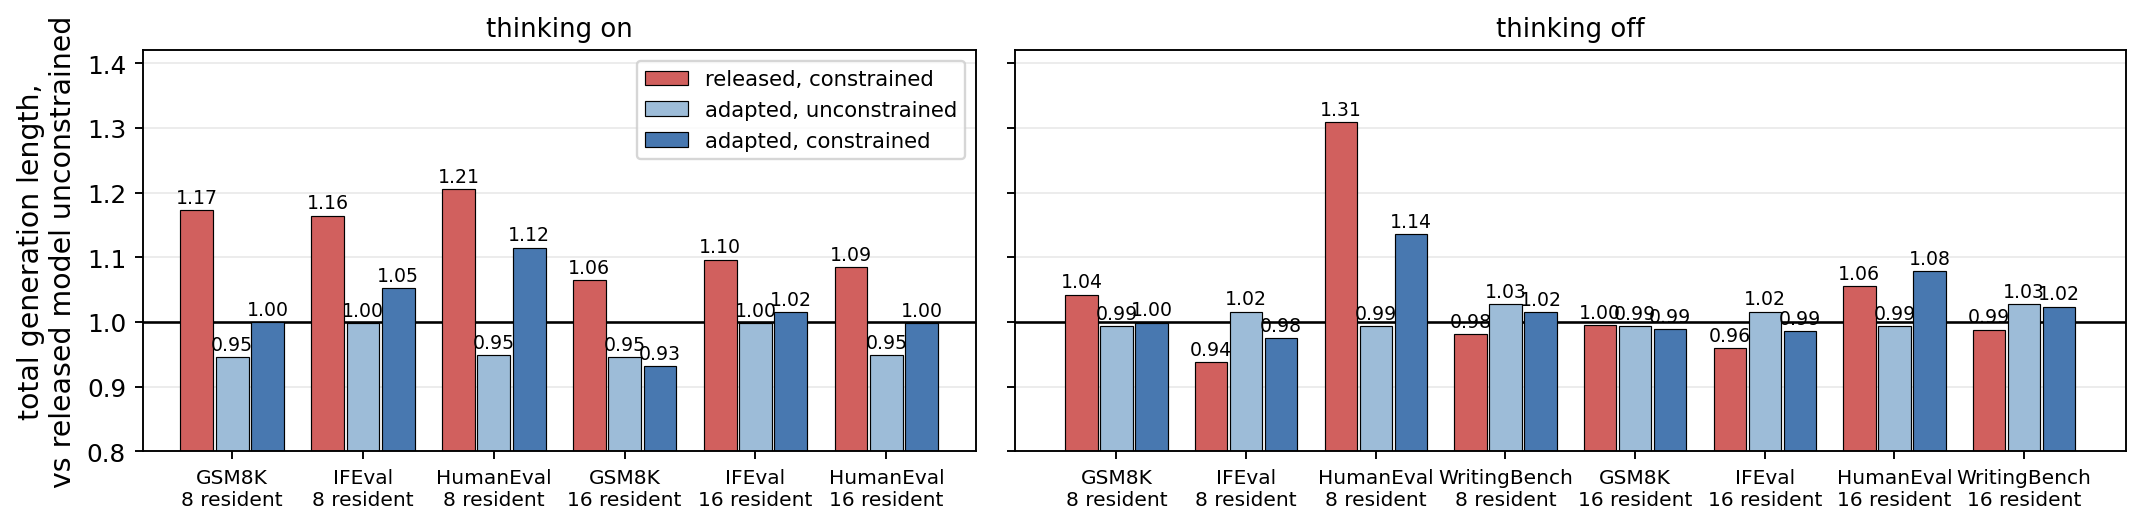
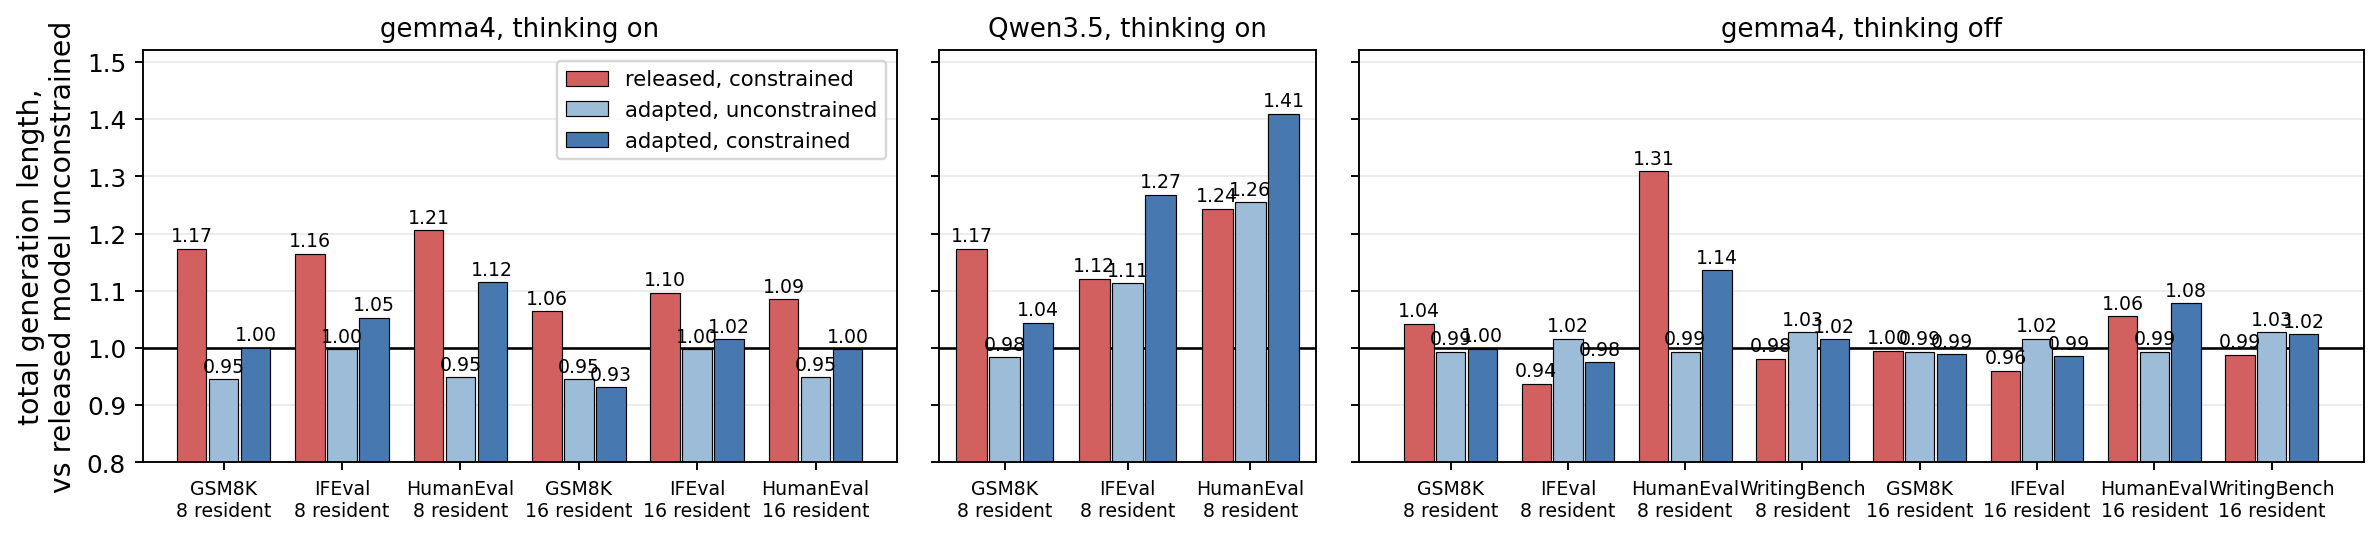
adapt_length: Qwen3.5 thinking-on panel; paper bumped (mean5, qwen length story)

diff --git a/analysis/residency/length_figs.py b/analysis/residency/length_figs.py
@@ -397,19 +397,27 @@ def _mean_total(rec, arm, task, keys=None):
 TASK = {"GSM8K": "gsm8k_cot_zeroshot", "IFEval": "ifeval",
         "HumanEval": "humaneval_gemma_fixed", "MMLU": "mmlu_dual"}
 ARMS = [("R8", "8 resident"), ("R16", "16 resident")]
-PANELS = [("thinking on",
+QTASK = TASK | {"HumanEval": "humaneval_instruct"}
+# per panel: title, base records, adapted records, surfaces, arms, surface->task
+PANELS = [("gemma4, thinking on",
            {"GSM8K": "gemma4_think_on_fulln_n1319", "IFEval": "gemma4_think_on_fulln_full",
             "HumanEval": "gemma4_think_on_fulln_he8192"},
            {"GSM8K": "gemma4_ce_online_think_n1319", "IFEval": "gemma4_ce_online_think_full",
             "HumanEval": "gemma4_ce_online_think_he8192"},
-           ["GSM8K", "IFEval", "HumanEval"]),
-          ("thinking off",
+           ["GSM8K", "IFEval", "HumanEval"], ARMS, TASK),
+          ("Qwen3.5, thinking on",
+           {"GSM8K": "qwen35_think_on_fulln_n1319", "IFEval": "qwen35_think_on_fulln_full",
+            "HumanEval": "qwen35_think_on_fulln_code"},
+           {"GSM8K": "qwen35_ce_online_think_n1319", "IFEval": "qwen35_ce_online_think_full",
+            "HumanEval": "qwen35_ce_online_think_code"},
+           ["GSM8K", "IFEval", "HumanEval"], [("R8", "8 resident")], QTASK),
+          ("gemma4, thinking off",
            {"GSM8K": "gemma4_instruct_n1319", "IFEval": "gemma4_instruct_full",
             "HumanEval": "gemma4_instruct_he8192"},
            {"GSM8K": "gemma4_ce_online_scratch_e16_klT2_n1319",
             "IFEval": "gemma4_ce_online_scratch_e16_klT2_rho0_full",
             "HumanEval": "gemma4_ce_online_scratch_e16_klT2_rho0_he8192"},
-           ["GSM8K", "IFEval", "HumanEval", "WritingBench"])]
+           ["GSM8K", "IFEval", "HumanEval", "WritingBench"], ARMS, TASK)]
 WB_PAIR = ("gemma4_base", "gemma4_ce_online_scratch_e16_klT2_rho0")
 
 BARS = [("released, constrained", "#d1605e", 0),
@@ -434,17 +442,19 @@ def _wb_ratio(arm):
 
 
 def adapt_length():
-    fig, axes = plt.subplots(1, 2, figsize=(12.8, 3.3) if PAPER else (13.2, 4.7),
-                             sharey=True, gridspec_kw={"width_ratios": [3, 4]})
-    for ax, (title, brec, arec, surfs) in zip(axes, PANELS):
-        cols = [(s, a) for a, _ in ARMS for s in surfs]
+    widths = [len(p[3]) * len(p[4]) for p in PANELS]
+    fig, axes = plt.subplots(1, len(PANELS),
+                             figsize=(14.2, 3.3) if PAPER else (14.4, 4.7),
+                             sharey=True, gridspec_kw={"width_ratios": widths})
+    for ax, (title, brec, arec, surfs, arms, tasks) in zip(axes, PANELS):
+        cols = [(s, a) for a, _ in arms for s in surfs]
         vals = {i: [] for i in range(3)}
         xs = {i: [] for i in range(3)}
         for ci, (surf, arm) in enumerate(cols):
             if surf == "WritingBench":
                 r = _wb_ratio(arm)
             else:
-                t = TASK[surf]
+                t = tasks[surf]
                 bfm, ks = _mean_total(brec[surf], "free", t)
                 if bfm is None:
                     continue
@@ -465,7 +475,7 @@ def adapt_length():
                             xytext=(0, 3), ha="center", fontsize=8)
         ax.axhline(1.0, color="black", lw=1.1, zorder=1)
         ax.set_xticks(range(len(cols)))
-        ax.set_xticklabels([f"{s}\n{dict(ARMS)[a]}" for s, a in cols], fontsize=8.5)
+        ax.set_xticklabels([f"{s}\n{dict(arms)[a]}" for s, a in cols], fontsize=8.0)
         ax.set_title(title, fontsize=11)
         ax.grid(alpha=0.25, axis="y")
         ax.set_axisbelow(True)
@@ -473,7 +483,7 @@ def adapt_length():
     axes[0].legend(fontsize=9, loc="upper right")
     # every ratio sits in 0.93-1.31; a zero floor would spend most of the panel
     # on empty axis, and the printed values keep truncated bars honest
-    axes[0].set_ylim(0.8, 1.42)
+    axes[0].set_ylim(0.8, 1.52)
     if not PAPER:
         fig.suptitle("Total generation length (thinking + answer), gemma4-26B, same "
                      "items\nblack line = the released checkpoint under free routing, "
@@ -482,13 +492,13 @@ def adapt_length():
     _save(fig, "adapt_length")
     print(f"\n{'panel':13} {'surface':13} {'arm':5} | {'rel.constr':>10} "
           f"{'adpt.free':>10} {'adpt.constr':>12}")
-    for title, brec, arec, surfs in PANELS:
-        for arm, _ in ARMS:
+    for title, brec, arec, surfs, arms, tasks in PANELS:
+        for arm, _ in arms:
             for surf in surfs:
                 if surf == "WritingBench":
                     r = _wb_ratio(arm)
                 else:
-                    t = TASK[surf]
+                    t = tasks[surf]
                     bfm, ks = _mean_total(brec[surf], "free", t)
                     if bfm is None:
                         continue
